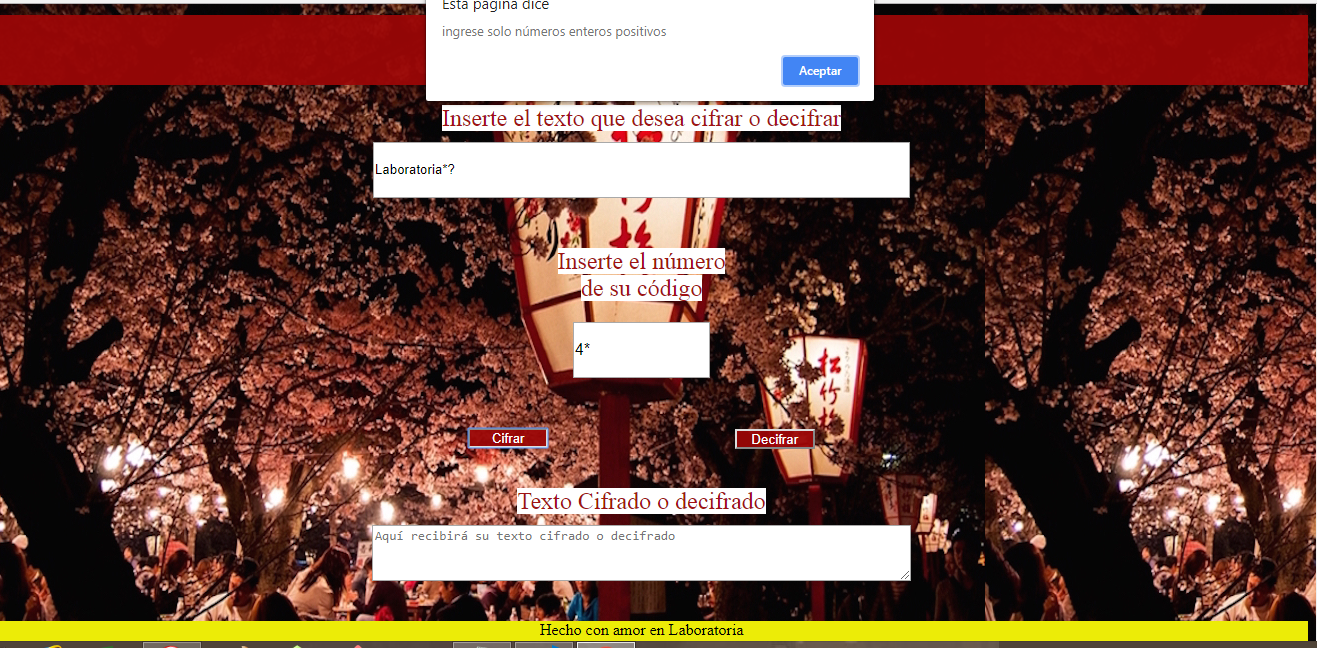
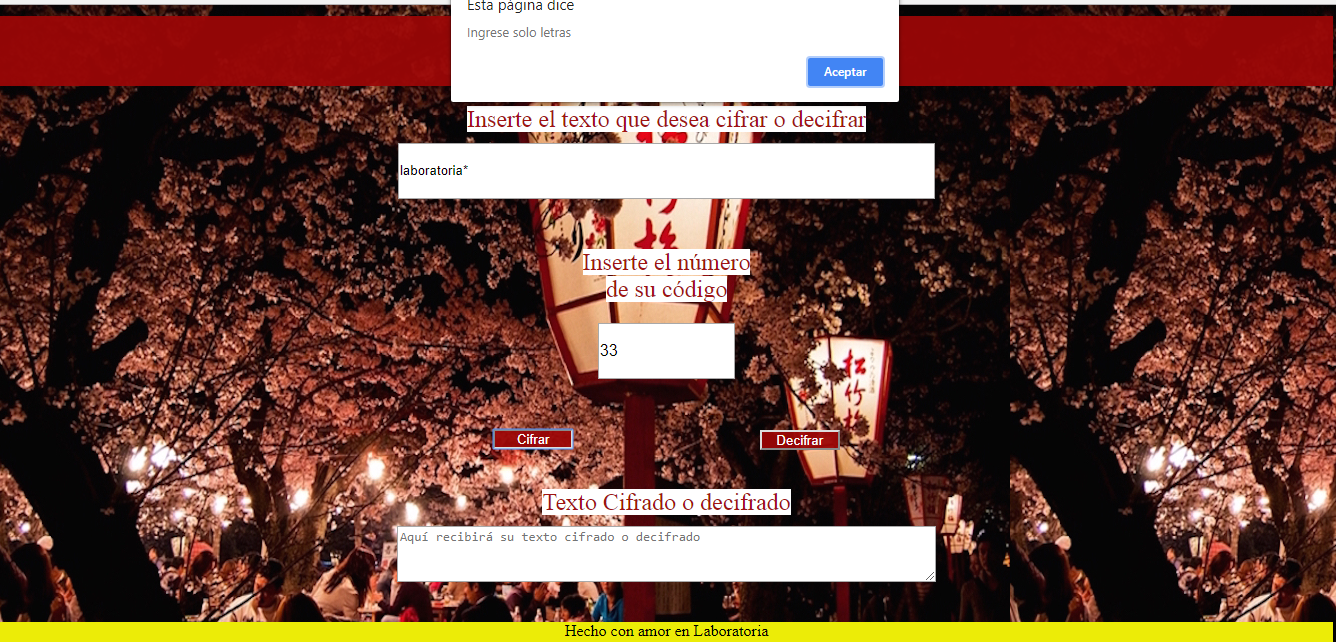
añadiendo presentación final del proyecto

diff --git a/src/cipher.js b/src/cipher.js
@@ -1,22 +1,16 @@
 window.cipher ={
   encode: (offset,string) => {
-
     let complete= '';
 
-    if(offset>0){
-      code = parseInt(offset);
-    } else {
-      code = alert('ingrese solo números enteros positivos');
-    }  // previniendo que solo se pueda insertar números en la clave del cifrado
-
     for (let i=0; i<string.length ; i++){
+      let code = parseInt(offset);
       let word=string.charCodeAt(i); 
         //usamos charCodeAt para obtener el codigo ASCII de las letras insertads y fromChartcode para convertir el codigo en letras
       if(word>=65 && word<=90) {      
-        complete = complete + String.fromCharCode((word - 65 + offset)%26 + 65);
+        complete = complete + String.fromCharCode((word - 65 + code)%26 + 65);
         //para letras en mayúsculas
       } else if(word>=97 && word<=122) {
-        complete = complete + String.fromCharCode((word - 97 + offset)%26 + 97);
+        complete = complete + String.fromCharCode((word - 97 + code)%26 + 97);
         //para letras en minúsculas
       } else if(word== 32) {
         complete += ' ';
@@ -26,26 +20,22 @@ window.cipher ={
         //previniendo errores
       }
     }
-
+    
     return complete;  
   },
     
   decode:(offset,string) => {
     let completeD='';
-    if(offset>0) {
-      codeD = parseInt(offset);
-    } else {
-      codeD = alert('ingrese solo números enteros positivos');
-    }  // previniendo que solo se pueda insertar números en la clave del cifrado
-  
+   
     for (var i=0; i<string.length ; i++) {
+      let codeD = parseInt(offset);
       let wordD=string.charCodeAt(i);
         //usamos charCodeAt para obtener el codigo ASCII de las letras insertads y fromChartcode para convertir el codigo en letras
       if(wordD>=65 && wordD<=90) {      
-        completeD = completeD+String.fromCharCode(((wordD-65)+(26-(offset%26)))%26+65);  
+        completeD = completeD+String.fromCharCode(((wordD-65)+(26-(codeD%26)))%26+65);  
         //para letras en mayúsculas
       } else if(wordD>=97 && wordD<=122) {
-        completeD = completeD+String.fromCharCode(((wordD-97)+(26-(offset%26)))%26+97);
+        completeD = completeD+String.fromCharCode(((wordD-97)+(26-(codeD%26)))%26+97);
         //para letras en minúsculas
       } else if(wordD== 32) {
         completeD += ' ';

diff --git a/README.md b/README.md
@@ -42,13 +42,16 @@ Para poder resolver el reto se siguieron estos pasos:
 1. Se inserta una letra o palabra (**word**). 
 2. Se inserta un código numérico (**offset**).
 3. Se decide si cifrar o decifrar el mensaje.
+
    3.1. Si se elige la opción (**cifrar**),se ejecuta la fórmula:
    (**String.fromCharCode((word - 65 + offset)%26 + 65)**) para mayúsculas,
    o (**String.fromCharCode((word - 97 + offset)%26 + 97)**) para minúsculas.
+
    3.2. Si se elige la opción (**decifrar**), se ejecuta la fórmula:
    (**String.fromCharCode(((wordD-65)+(26-(offset%26)))%26+65)**) para mayúsculas,
    o (**String.fromCharCode(((wordD-97)+(26-(offset%26)))%26+97)**) para minúsculas.
-4. Si el ususario ingresa algo diferente a lo solicitado en los cuadros de texto,
+
+4. Si el ususario ingresa algo diferente a lo solicitado en el cuadros de texto,
    aparecerá un mensaje de alerta para que lo corrija.
 5. Se recibirá el mensaje cifrado o decifrado según lo haya solicitado.
 
